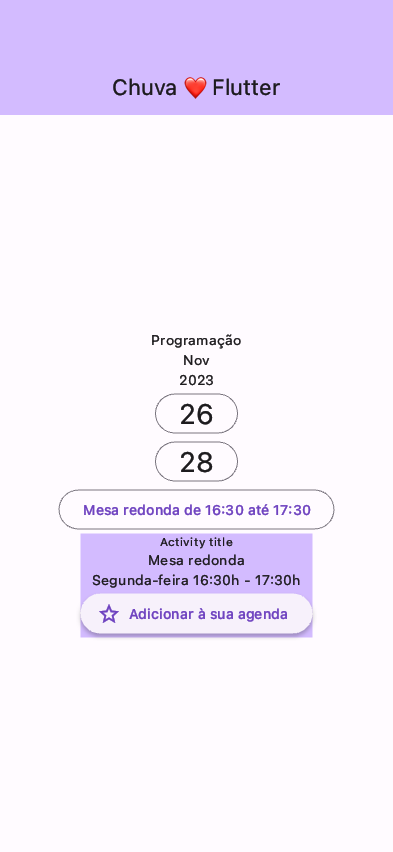
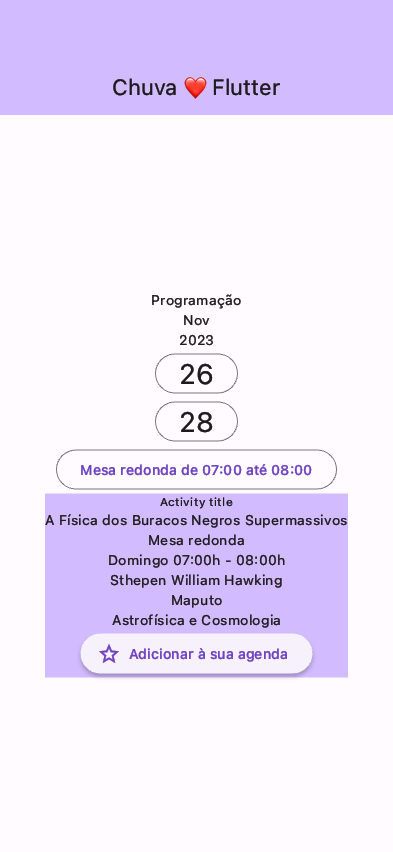
feat: Atualiza testes e código mock

Changed region(s): [[0.0916, 0.3357, 0.8855, 0.7934]]

diff --git a/dart/lib/main.dart b/dart/lib/main.dart
@@ -29,7 +29,7 @@ class Calendar extends StatefulWidget {
 }
 
 class _CalendarState extends State<Calendar> {
-  DateTime _currentDate = DateTime(2023, 11, 8);
+  DateTime _currentDate = DateTime(2023, 11, 26);
   bool _clicked = false;
 
   void _changeDate(DateTime newDate) {
@@ -76,6 +76,14 @@ class _CalendarState extends State<Calendar> {
                 style: Theme.of(context).textTheme.headlineMedium,
               ),
             ),
+            if (_currentDate.day == 26)
+              OutlinedButton(
+                  onPressed: () {
+                    setState(() {
+                      _clicked = true;
+                    });
+                  },
+                  child: const Text('Mesa redonda de 07:00 até 08:00')),
             if (_currentDate.day == 28)
               OutlinedButton(
                   onPressed: () {
@@ -83,8 +91,8 @@ class _CalendarState extends State<Calendar> {
                       _clicked = true;
                     });
                   },
-                  child: const Text('Mesa redonda de 16:30 até 17:30')),
-            if (_clicked) const Activity(),
+                  child: const Text('Palestra de 09:30 até 10:00')),
+            if (_currentDate.day == 26 && _clicked) const Activity(),
           ],
         ),
       ),
@@ -111,8 +119,12 @@ class _ActivityState extends State<Activity> {
           'Activity title',
           style: Theme.of(context).textTheme.bodySmall,
         ),
+        const Text('A Física dos Buracos Negros Supermassivos'),
         const Text('Mesa redonda'),
-        const Text('Segunda-feira 16:30h - 17:30h'),
+        const Text('Domingo 07:00h - 08:00h'),
+        const Text('Sthepen William Hawking'),
+        const Text('Maputo'),
+        const Text('Astrofísica e Cosmologia'),
         ElevatedButton.icon(
           onPressed: () {
             setState(() {

diff --git a/dart/integration_test/calendar_test.dart b/dart/integration_test/calendar_test.dart
@@ -13,14 +13,14 @@ void main() {
       expect(find.text('2023'), findsOneWidget);
       expect(find.text('26'), findsOneWidget);
       expect(find.text('28'), findsOneWidget);
-      expect(find.text('Mesa redonda de 16:30 até 17:30'), findsNothing);
+      expect(find.text('Mesa redonda de 07:00 até 08:00'), findsOneWidget);
     });
 
     testWidgets('Seleciona dia 28 e verifica que a mesa redonda foi renderizada', (WidgetTester tester) async {
       await tester.pumpWidget(const ChuvaDart());
 
-      // Check that 'Mesa redonda de 16:30 até 17:30' is not on the screen before tapping '28'.
-      expect(find.text('Mesa redonda de 16:30 até 17:30'), findsNothing);
+      // Check that 'Palestra de 09:30 até 10:00' is not on the screen before tapping '28'.
+      expect(find.text('Palestra de 09:30 até 10:00'), findsNothing);
       await expectLater(
         find.byType(Calendar),
         matchesGoldenFile('../screenshots/CalendarPage-Day26.png'),
@@ -35,8 +35,8 @@ void main() {
         matchesGoldenFile('../screenshots/CalendarPage-Day28.png'),
       );
 
-      // Then check if 'Mesa redonda de 16:30 até 17:30' appears.
-      expect(find.text('Mesa redonda de 16:30 até 17:30'), findsOneWidget);
+      // Then check if 'Palestra de 09:30 até 10:00' appears.
+      expect(find.text('Palestra de 09:30 até 10:00'), findsOneWidget);
     });
   });
 }

diff --git a/dart/integration_test/activity_test.dart b/dart/integration_test/activity_test.dart
@@ -5,9 +5,7 @@ import 'package:integration_test/integration_test.dart';
 // Open activity page.
 Future<void> loadActivityPage(WidgetTester tester) async {
   await tester.pumpWidget(const ChuvaDart());
-  await tester.tap(find.text('28'));
-  await tester.pumpAndSettle();
-  await tester.tap(find.text('Mesa redonda de 16:30 até 17:30'));
+  await tester.tap(find.text('Mesa redonda de 07:00 até 08:00'));
   await tester.pumpAndSettle();
 }
 
@@ -22,10 +20,11 @@ void main() {
         matchesGoldenFile('../screenshots/ActivityPage-Unfavorited.png'),
       );
 
-      expect(find.text('Programação'), findsOneWidget);
-      expect(find.text('Mesa redonda'), findsOneWidget);
-      expect(find.text('Segunda-feira 16:30h - 17:30h'), findsOneWidget);
+      expect(find.text('Astrofísica e Cosmologia'), findsOneWidget);
+      expect(find.text('Maputo'), findsOneWidget);
+      expect(find.text('Domingo 07:00h - 08:00h'), findsOneWidget);
       expect(find.text('Adicionar à sua agenda'), findsOneWidget);
+      expect(find.text('Sthepen William Hawking'), findsOneWidget);
     });
 
     testWidgets('Verifica se favoritar funciona', (WidgetTester tester) async {
